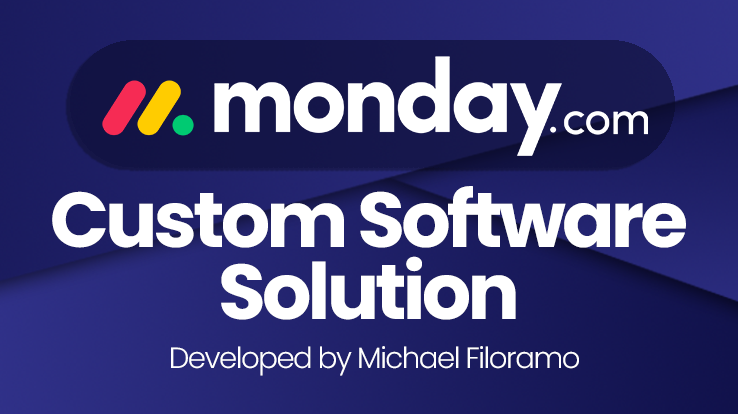
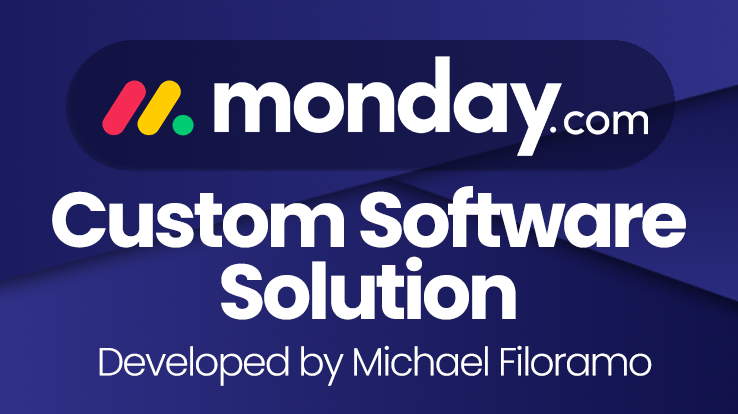
Fix deployment

Changed region(s): [[0.1247, 0.8406, 0.9038, 0.9275]]

diff --git a/src/components/button-container.tsx b/src/components/button-container.tsx
@@ -10,9 +10,13 @@ import { ButtonContainerProps } from '@/interfaces/ButtonContainerProps.interfac
 export default function ButtonContainer({ buttonOneText, buttonTwoText, buttonOneLink, buttonTwoLink, buttonThreeText, buttonThreeLink }: ButtonContainerProps): ReactElement {
   return (
     <div
-      className={ 'flex flex-col sm:flex-row justify-center sm:justify-between flex-wrap px-4 min-w-[240px] sm:max-w-[950px] max-w-[87vw] sm:px-12 mt-8 mb-12 mx-auto pb-8' }>
+      className={ 'flex flex-col sm:flex-row justify-center sm:justify-between flex-wrap px-4 min-w-[240px] sm:max-w-[650px] max-w-[87vw] sm:px-12 mt-8 mb-12 mx-auto pb-8' }>
       <MotionSlider className={ '' } delay={ 1.2 }>
-        <Link href={ buttonOneLink ? buttonOneLink.toLowerCase() : buttonOneText.toLowerCase() } rel={ buttonOneText === 'Portfolio' ? '' : 'noopener noreferrer' } target={ buttonOneText === 'Portfolio' ? '' : '_blank' }>
+        <Link
+          href={ buttonOneLink ? buttonOneLink.toLowerCase() : buttonOneText.toLowerCase() }
+          rel={ buttonOneText === 'Portfolio' ? '' : 'noopener noreferrer' }
+          target={ buttonOneText === 'Portfolio' ? '' : '_blank' }
+        >
           <motion.div
             className={ `bg-gradient-to-b from-slate-100 to-slate-400 rounded-xl text-slate-950 py-3 px-7 min-w-[230px] text-3xl cursor-pointer border-2 border-black shadow-xl hover:shadow-2xl w-full sm:w-auto my-2 text-center ${ inter_tightHeavy.className }` }
             whileHover={ { scale: 1.05 } }
@@ -39,7 +43,7 @@ export default function ButtonContainer({ buttonOneText, buttonTwoText, buttonOn
 
       { buttonThreeText && buttonThreeLink && (
         <MotionSlider className={ '' } delay={ 1.4 }>
-          <Link href={ buttonThreeLink ? buttonThreeLink.toLowerCase() : buttonThreeText?.toLowerCase() } rel={ buttonThreeText === 'Services' ? '' : 'noopener noreferrer' } target={ buttonThreeText === 'Services' ? '' : '_blank' }>
+          <Link href={ buttonThreeLink ? buttonThreeLink.toLowerCase() : buttonThreeText.toLowerCase() } rel={ buttonThreeText === 'Services' ? '' : 'noopener noreferrer' } target={ buttonThreeText === 'Services' ? '' : '_blank' }>
             <motion.div
               className={ `bg-gradient-to-b from-slate-100 to-slate-400 rounded-xl text-slate-950 py-3 px-7 min-w-[230px] text-3xl cursor-pointer border-2 border-black shadow-xl hover:shadow-2xl w-full sm:w-auto my-2 text-center ${ inter_tightHeavy.className }` }
               whileHover={ { scale: 1.05 } }

diff --git a/src/app/portfolio/monday-app/page.tsx b/src/app/portfolio/monday-app/page.tsx
@@ -21,7 +21,7 @@ export default function MondayApp(): ReactElement {
           initial={ { opacity: 0 } }
           animate={ { opacity: 1 } }
           transition={ { duration: 0.1 } }
-          className='relative w-full h-full'
+          className='relative w-full h-full px-4'
         >
           <div className='absolute inset-0'>
             <Image
@@ -35,7 +35,7 @@ export default function MondayApp(): ReactElement {
         </motion.div>
 
         {/* ANIMATED LOGO/TEXT CONTAINER */ }
-        <div className='absolute mt-[3vh] inset-0 flex justify-center items-start'>
+        <div className='absolute mt-[6vh] inset-0 flex justify-center items-start'>
           <div className='flex flex-col items-center'>
 
             {/* ANIMATED LOGO GRAPHIC */ }
@@ -51,9 +51,9 @@ export default function MondayApp(): ReactElement {
               } }
             >
               <Image
-                className='w-[80vw] max-w-[600px]'
+                className='sm:w-[35vw] min-w-[500px]'
                 src='/images/portfolio-pages/monday-app/monday-banner-logo.png'
-                alt='LingoLink Logo'
+                alt='Monday.com Logo'
                 width={ 1677 }
                 height={ 656 }
               />
@@ -72,7 +72,7 @@ export default function MondayApp(): ReactElement {
               } }
             >
               <Image
-                className=''
+                className='w-[75%]'
                 src='/images/portfolio-pages/monday-app/monday-banner-text.png'
                 alt='LingoLink Logo Text'
                 width={ 891 }

diff --git a/src/interfaces/ButtonContainerProps.interface.ts b/src/interfaces/ButtonContainerProps.interface.ts
@@ -1,6 +1,6 @@
 export interface ButtonContainerProps {
-  readonly buttonOneText: string;
-  readonly buttonOneLink: string;
+  readonly buttonOneText?: string;
+  readonly buttonOneLink?: string;
   readonly buttonTwoText?: string;
   readonly buttonTwoLink?: string;
   readonly buttonThreeText?: string;
